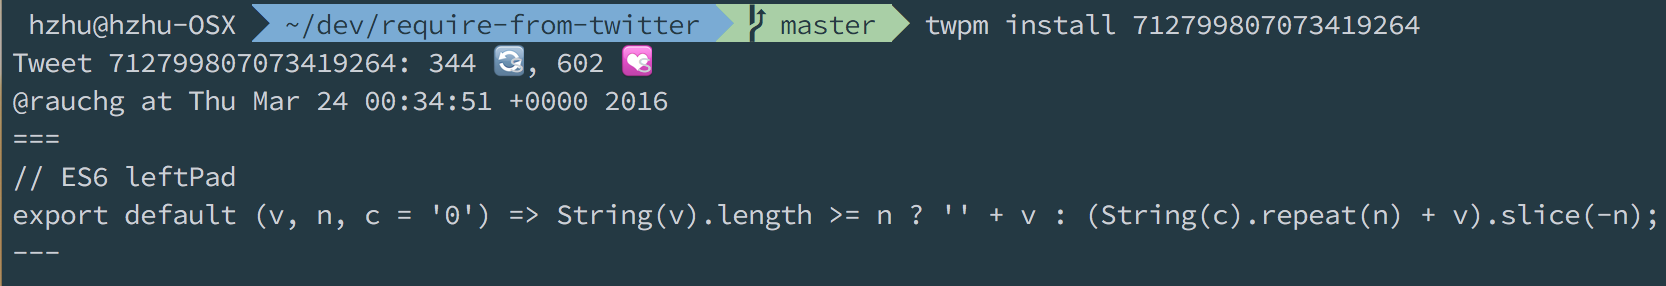
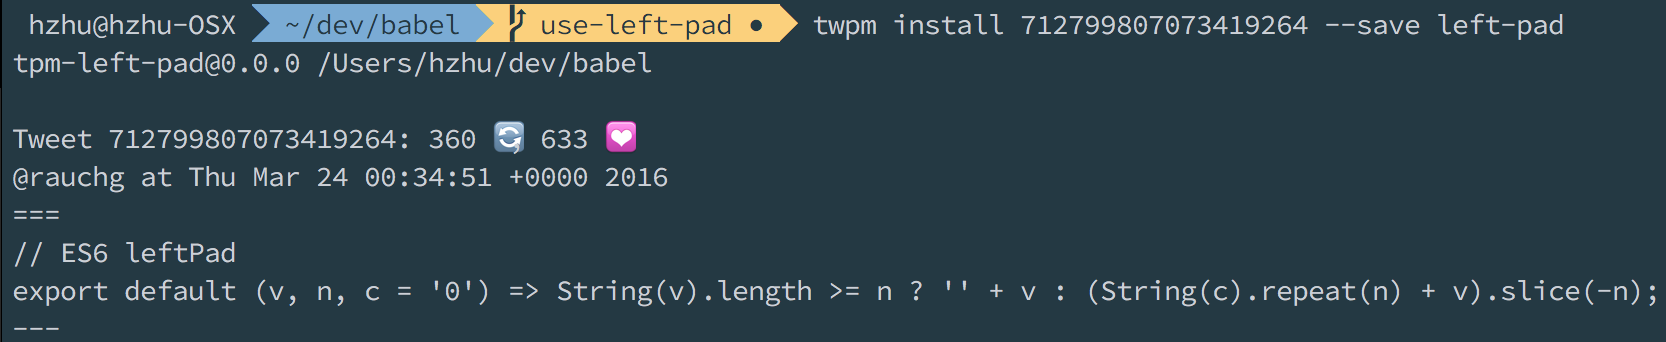
Add a test using left-pad as a dependency
- use node_modules by default
- make index.js to use regular require
- make package.json
- namespace to tpm-

diff --git a/index.js b/index.js
@@ -1,18 +1,25 @@
 "use strict";
 
+const mkdirp = require("mkdirp");
 const path = require("path");
 const fs = require("fs");
+const Babel = require("babel-standalone");
+const babelrc = require("./package").babel;
+
 const utils = require("./utils");
-const getTweet = require("./sources/twitter.js");
+const getTweet = require("./sources/twitter");
 
 const rootPath = utils.getTopLevelDirectory();
 const packageLoc = path.join(rootPath, "package.json");
 
 let pkg;
-let twpmModulesName = "tweet_modules";
+let twpmModulesName = "node_modules";
+let twpmFolderPrefix = "tpm-";
 try {
   pkg = require(packageLoc);
   twpmModulesName = pkg && pkg.twpm && pkg.twpm.modulesLocation || twpmModulesName;
+  twpmFolderPrefix = pkg && pkg.twpm && pkg.twpm.folderPrefix || twpmFolderPrefix;
+
 } catch(e) {
   throw new Error(`${e.message}\nProbably a missing package.json`);
 }
@@ -20,7 +27,7 @@ try {
 const twpmFolder = path.join(rootPath, twpmModulesName);
 
 function twpmPath(moduleName) {
-  return `${twpmFolder}/${moduleName}.js`;
+  return `${twpmFolder}/${moduleName}`;
 }
 
 function matchTwitterUrl(path) {
@@ -29,9 +36,11 @@ function matchTwitterUrl(path) {
 }
 
 function install(path, name) {
-  if (!path && pkg && pkg.twpmDependencies) {
-    for (let dep in pkg.twpmDependencies) {
-      install(pkg.twpmDependencies[dep], dep);
+  if (!path && pkg && pkg.twpm) {
+    for (let dep in pkg.twpm.dependencies) {
+      if (dep.startsWith(twpmFolderPrefix)) {
+        install(pkg.twpm.dependencies[dep], dep);
+      }
     }
     return;
   }
@@ -49,27 +58,37 @@ function install(path, name) {
 
   getTweet(match, name)
   .then((data) => {
-    _install(`twitter:${match}`, data);
+    _install(name || match, data);
   }, (err) => {
     console.error(err.message);
   });
 }
 
 function _install(moduleName, data) {
-  fs.stat(twpmFolder, (e) => {
-    if (e && e.code === "ENOENT") {
-      fs.mkdirSync(twpmFolder);
+  const folder = twpmPath(`${
+    moduleName.startsWith(twpmFolderPrefix) ?
+    moduleName :
+    twpmFolderPrefix + moduleName
+  }`);
+
+  mkdirp(folder, function (err) {
+    if (err) {
+      console.error(err, `Unable to create folder ${folder}`);
     }
 
-    fs.writeFile(twpmPath(moduleName), data, "utf8", (err) => {
-      if (err) {
-        console.error(`Unable to install file at ${twpmPath(moduleName)}`);
-        throw err;
-      }
+    var transformedText = Babel.transform(data.text, babelrc).code;
+    transformedText += "\n module.exports = exports['default'];"
+
+    fs.writeFile(path.join(folder, 'index.js'), transformedText, (err) => {
+      if (err) console.error(err, `Unable to write ${folder} text to index.js`);
+    });
+
+    fs.writeFile(path.join(folder, 'package.json'), JSON.stringify(data, null, "  "), (err) => {
+      if (err) console.error(err, `Unable to write ${folder}'s package.json`);
     });
   });
 }
 
 module.exports = {
-  install: install
+  install
 };

diff --git a/sources/twitter.js b/sources/twitter.js
@@ -30,8 +30,16 @@ module.exports = function getTweet(id, name) {
     }
     data.text = decode(data.text);
 
+    var filteredData = {};
     if (name) {
-      console.log(name);
+      const prefix = pkg.twpm && pkg.twpm.folderPrefix || "tpm-";
+
+      filteredData.name = name;
+      if (!name.startsWith(prefix)) {
+        filteredData.name = `${prefix}${name}`;
+      }
+    } else {
+      filteredData.name = `${prefix}${id}`;
     }
 
     console.log(`Tweet ${id}: ${data.retweet_count} 🔄, ${data.favorite_count} 💟`);
@@ -41,15 +49,35 @@ module.exports = function getTweet(id, name) {
     console.log("---");
     console.log();
 
-    const filter = pkg.twpm && pkg.twpm.fields && pkg.twpm.fields.concat("text") || [
-      "created_at",
+    const filter = pkg.twpm &&
+    pkg.twpm.packageMetadata &&
+    pkg.twpm.packageMetadata.concat(["name", "text", "screen_name", "id_str"]) || [
+      "name",
       "text",
+      "screen_name",
       "id_str",
-      "user",
-      "screen_name"
+      "retweet_count",
+      "favorite_count",
+      "created_at",
+      "user"
     ];
 
-    return JSON.stringify(data, filter, 4);
+    filteredData.version = "0.0.0";
+
+    for (let i in data) {
+      if (filter.indexOf(i) >= 0) {
+        if (i === "user") {
+          filteredData.user = {
+            name: data.user.name,
+            screen_name: data.user.screen_name
+          }
+        } else {
+          filteredData[i] = data[i];
+        }
+      }
+    }
+
+    return filteredData;
   }, (err) => {
     return err;
   });

diff --git a/bin/twpm.js b/bin/twpm.js
@@ -14,16 +14,16 @@ if (arg === "-v" || arg === "-V" || arg === "--version" || arg === "-version") {
   process.exit(0);
 }
 
-
 if (arg === "install" || arg === "i") {
   const twpm = require("../index");
 
   const url = args[1];
-  twpm.install(url);
+  twpm.install(url, args[3]);
 
   // npm install id-here --save name-here
   const extra = args[2];
-  if (extra === "--save") {
+  if (extra === "--save" || extra === "-S") {
+
     const utils = require("../utils");
     const path = require("path");
     const fs = require("fs");
@@ -31,13 +31,22 @@ if (arg === "install" || arg === "i") {
     const packageLoc = path.join(rootPath, "package.json");
     const pkg = require(packageLoc);
 
-    if (!pkg.twpmDependencies) {
-      pkg.twpmDependencies = {};
-    }
+    const prefix = pkg.twpm && pkg.twpm.folderPrefix || "tpm-";
 
-    pkg.twpmDependencies[args[3] || url] = url;
+    if (!pkg.twpm) {
+      pkg.twpm = {};
+    }
+    if (!pkg.twpm.dependencies) {
+      pkg.twpm.dependencies = {};
+    }
+    const pkgName = `${prefix}${args[3] || url}`;
+
+    pkg.twpm.dependencies[pkgName] = url;
 
     fs.writeFileSync(packageLoc, JSON.stringify(pkg, null, "  "));
+
+    console.log(`${pkgName}@0.0.0 ${process.cwd()}`);
+    console.log();
   }
 } else {
   if (arg) {

diff --git a/test/test.js b/test/test.js
@@ -1,0 +1,14 @@
+const assert = require("assert");
+
+// es6 left pad
+const leftPad = require("tpm-left-pad");
+const res1 = leftPad(1, 5);
+assert(res1 === "00001");
+
+const res2 = leftPad(1234, 5);
+assert(res2 === "01234");
+
+const res3 = leftPad(12345, 5);
+assert(res3 === "12345");
+
+console.log("All passed! 🎉");

diff --git a/README.md b/README.md
@@ -5,11 +5,11 @@ twitter package manager
 
 >https://gist.github.com/rauchg/5b032c2c2166e4e36713#gistcomment-1732501
 
-![left-pad](left-pad.png)
+[![](twpm.gif)](https://twitter.com/rauchg/status/712799807073419264)
 
-## Usage
+### Setup
 
-You will need `twitter-config.js` in the root repo you run this in.
+At the moment, you will need a `twitter-config.js` in the root repo you run this in.
 
 > You can create a twitter app at https://apps.twitter.com/
 
@@ -26,37 +26,100 @@ module.exports = {
 };
 ```
 
-```js
-{
-  "name": "require-from-twitter",
-  "twpm": {
-    "modulesLocation": "tweet_modules", // default folder
-    "fields": [
-      "created_at",
-      "text",
-      "id_str",
-      "user",
-      "screen_name"
-    ] // default fields to take from twitter status
-  },
-  "twpmDependencies": {
-    "left-pad": "712799807073419264",
-    "sort": "713782217646931968"
-  }
-}
+### Simple Usage
+
+```bash
+// after adding `./twitter-config.js` ^
+twpm install 712799807073419264 --save left-pad
+// in a file, require it with the prefix
+const leftPad = require("tpm-left-pad");
 ```
+
+### Commands
 
 ```bash
 # install specific tweet/id
-twpm install 712799807073419264 # tweet id 
+twpm install 712799807073419264 # tweet id
 twpm install https://twitter.com/rauchg/status/712799807073419264 # full url
+# Will install to node_modules/tpm-712799807073419264
+
+`install` creates a `index.js` with transpiled source and a `package.json` with metadata (including the original source).
 
 # save to package.json
 # under the twpm key
 twpm install 712799807073419264 --save left-pad
+# Will install to node_modules/tpm-left-pad
 
-# install everything under the `twpmDependencies`
+# install everything under the `twpm.dependencies`
 twpm install
 # shorthand
 twpm i
+```
+
+### Require
+
+> The default package folder/require prefix is `tpm-`
+
+```js
+// usage for `twpm install 712799807073419264 --save left-pad`
+const leftPad = require("tpm-left-pad");
+leftPad(1, 5) // "00001"
+```
+
+### Repo `package.json`
+
+```js
+{
+  "name": "pad",
+  "twpm": {
+    "modulesLocation": "node_modules", // default folder
+    "folderPrefix": "tpm-", // default prefix
+    "packageMetadata": [
+      "name",
+      "text",
+      "screen_name",
+      "id_str",
+      "retweet_count",
+      "favorite_count",
+      "created_at",
+      "user"
+    ] // default fields to take from twitter status
+    "dependencies": {
+      "tpm-left-pad": "712799807073419264"
+      "tpm-sort": "713782217646931968"
+    }
+  }
+}
+```
+
+### Example
+
+![left-pad](left-pad.png)
+
+```bash
+# twpm i 712799807073419264 --save asdf
+tpm-asdf@0.0.0 /Users/hzoo/twpm-test
+
+Tweet 712799807073419264: 359 🔄, 632 💟
+@rauchg at Thu Mar 24 00:34:51 +0000 2016
+===
+// ES6 leftPad
+export default (v, n, c = '0') => String(v).length >= n ? '' + v : (String(c).repeat(n) + v).slice(-n);
+---
+```
+
+```
+- twpm-test
+  - node_modules
+    - tpm-asdf
+      - index.js # transpiled index.js
+      - package.json # reformatted twitter data + name field
+```
+
+## Test
+// Will need `twitter-config.js` setup
+```bash
+npm i
+twpm i
+npm t
 ```
